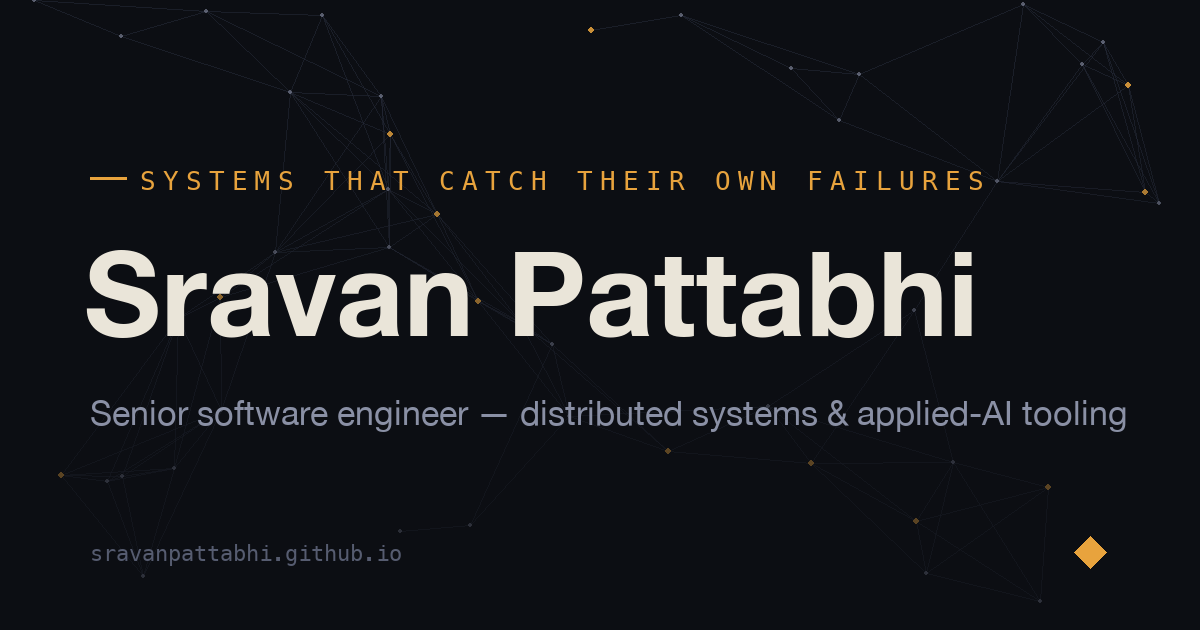
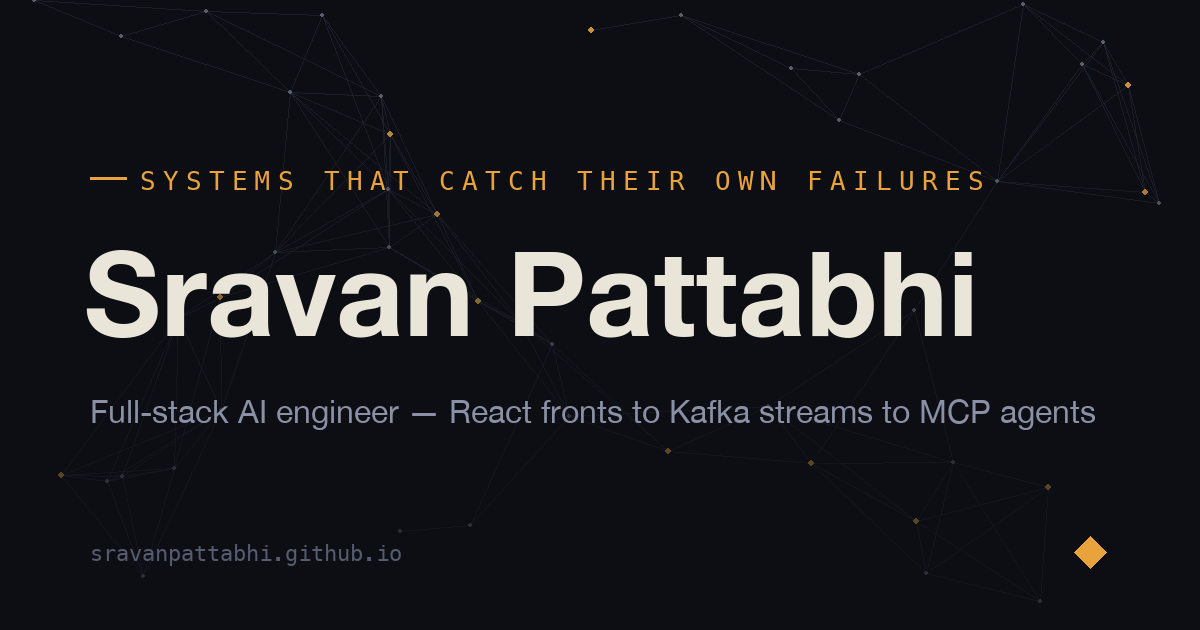
Reposition identity as Full-stack AI engineer
Hero, about, meta description, OG description, and social card now lead
with full-stack-AI framing: React fronts, Kafka streams, MCP agents.

Changed region(s): [[0.0617, 0.6333, 0.9558, 0.6937]]

diff --git a/index.html b/index.html
@@ -4,11 +4,11 @@
   <meta charset="utf-8">
   <meta name="viewport" content="width=device-width, initial-scale=1">
   <title>Sravan Pattabhi</title>
-  <meta name="description" content="Senior software engineer building distributed systems and applied-AI tooling &mdash; event streams, reliability engineering, and agents that catch failures before people do.">
+  <meta name="description" content="Full-stack AI engineer &mdash; building products end to end, from React fronts and Kafka event streams to MCP agents that catch failures before people do.">
   <meta name="author" content="Sravan Pattabhi">
   <meta name="theme-color" content="#0C0E13">
   <meta property="og:title" content="Sravan Pattabhi">
-  <meta property="og:description" content="Distributed systems and applied-AI engineering &mdash; a portfolio in motion.">
+  <meta property="og:description" content="Full-stack AI engineering &mdash; a portfolio in motion.">
   <meta property="og:type" content="website">
   <meta property="og:url" content="https://sravanpattabhi.github.io/">
   <meta property="og:image" content="https://sravanpattabhi.github.io/og.png">
@@ -793,8 +793,8 @@
         <span class="name-line line-mask"><span aria-hidden="true"><span class="gl">P</span><span class="gl">a</span><span class="gl">t</span><span class="gl">t</span><span class="gl">a</span><span class="gl">b</span><span class="gl">h</span><span class="gl">i</span></span></span>
       </h1>
       <p class="hero-sub">
-        Senior software engineer building <em>distributed systems and applied-AI
-        tooling</em> &mdash; event streams, reliability engineering, and agents
+        <em>Full-stack AI engineer</em> &mdash; building products end to end,
+        from React fronts and Kafka event streams to MCP agents
         that catch failures before people do.
       </p>
       <div class="hero-meta">
@@ -834,10 +834,10 @@
     <div class="wrap about-grid">
       <span class="about-label reveal">Profile</span>
       <p class="about-copy reveal d1">
-        I build <strong>distributed systems that hold up in production</strong>
-        &mdash; and lead the teams that ship them &mdash; Kafka event streams,
-        Spring Boot services, React frontends,
-        across AWS, Azure, and OCI. Lately that discipline points at applied AI:
+        Full-stack means the whole thing: <strong>React fronts, Spring Boot
+        and Node services, Kafka event streams, and the Kubernetes they run
+        on</strong> &mdash; across AWS, Azure, and OCI, leading the teams that
+        ship them. The AI half is production-grade too:
         <strong>agent skills on MCP servers that catch reliability problems
         before customers do.</strong>
       </p>
